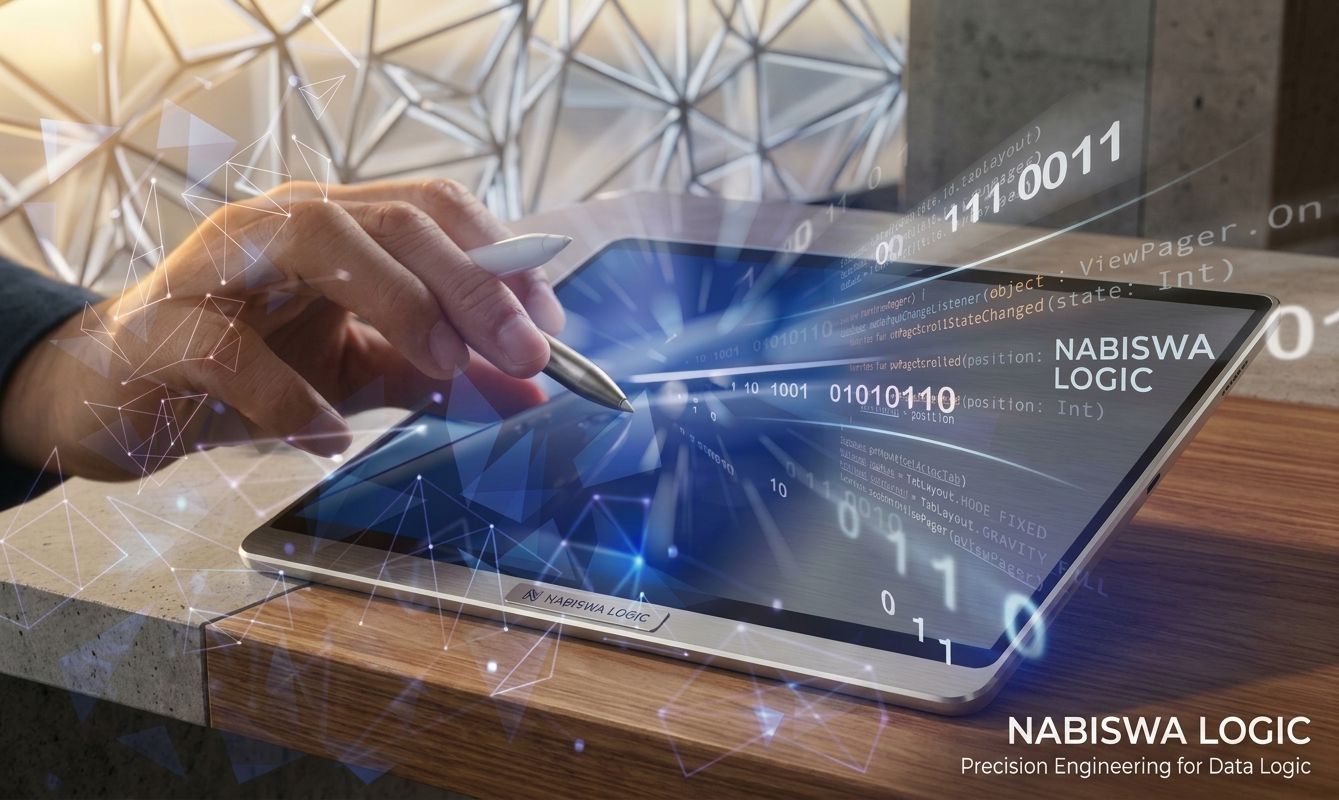
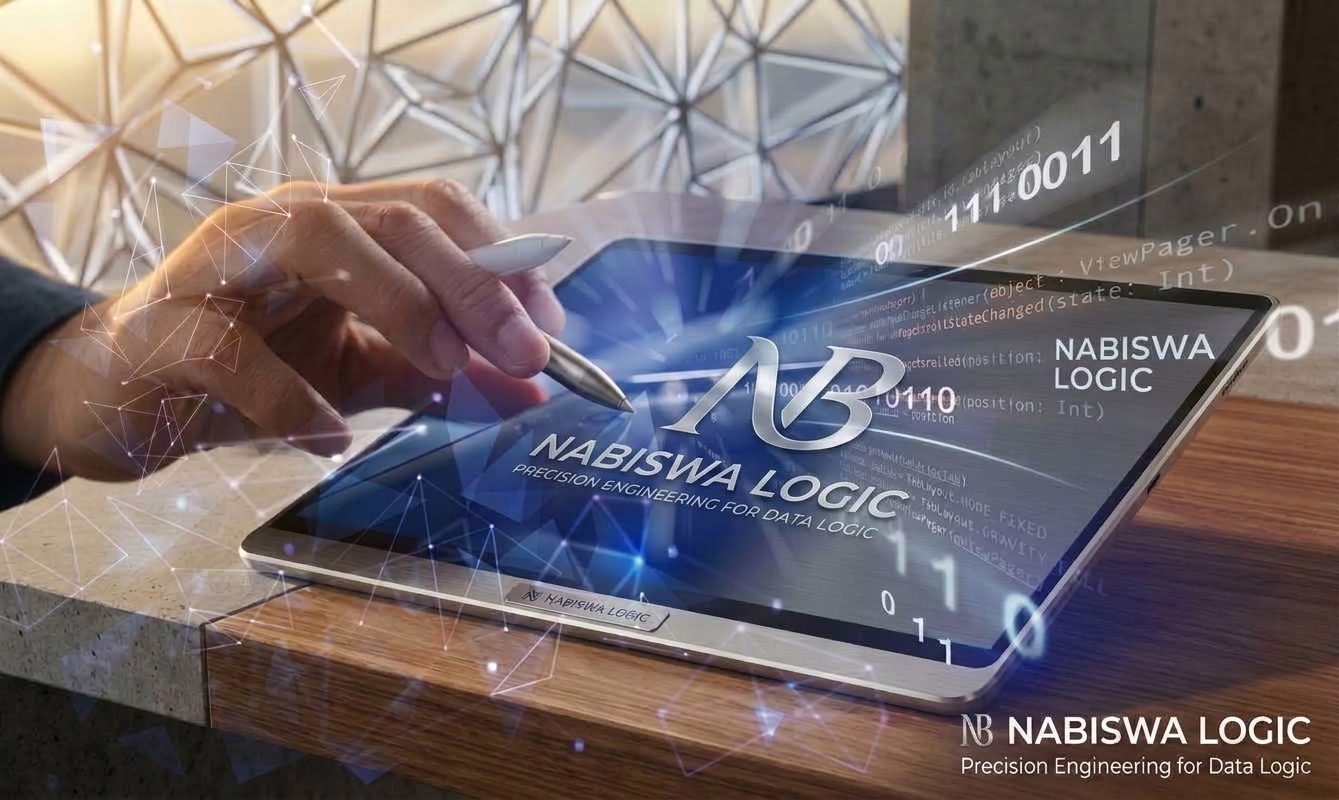
Final

Changed region(s): [[0.3674, 0.4062, 0.7043, 0.6875], [0.7043, 0.875, 0.7655, 0.9375]]

diff --git a/templates/customers/landing.html b/templates/customers/landing.html
@@ -1,8 +1,12 @@
 {% extends "base.html" %}
+{% load static %}
 {% block title %}{{ branding.business_name }} &middot; Get Connected{% endblock %}
 {% block content %}
 <div style="text-align:center; padding:32px 16px 8px;">
-  <h1>{{ branding.business_name }}</h1>
+  <div style="display:flex; align-items:center; justify-content:center; gap:14px;">
+    <img src="{% static 'images/logo.png' %}" alt="Logo" style="height:56px; width:auto;">
+    <h1 style="font-family:'Tangerine',cursive; font-size:3.2rem; font-weight:400; line-height:1; margin:0;">{{ branding.business_name }}</h1>
+  </div>
   <p style="color:var(--color-text-muted);">{{ branding.portal_message }}</p>
   <p style="font-size:.85rem;">
     Already paid, or have a voucher? <a href="#reconnect">Get connected </a>
@@ -77,7 +81,7 @@
   </div>
 </div>
 <section id="reconnect" class="card" style="max-width:420px;margin:48px auto;">
-  <h2 style="margin-top:0;">Get connected another way</h2>
+  <h2 style="margin-top:0; font-family:'Tangerine',cursive; font-size:2.2rem; font-weight:400;">Get connected another way</h2>
 
   {% if messages %}
     {% for message in messages %}

diff --git a/templates/base.html b/templates/base.html
@@ -6,6 +6,11 @@
   <meta name="viewport" content="width=device-width, initial-scale=1.0">
     <title>{% block title %}{{ branding.business_name }}{% endblock %}</title>
 
+  <link rel="apple-touch-icon" sizes="180x180" href="{% static 'favicons/apple-touch-icon.png' %}">
+  <link rel="icon" type="image/png" sizes="32x32" href="{% static 'favicons/favicon-32x32.png' %}">
+  <link rel="icon" type="image/png" sizes="16x16" href="{% static 'favicons/favicon-16x16.png' %}">
+  <link rel="manifest" href="{% static 'favicons/site.webmanifest' %}">
+
   <!-- Google Fonts -->
   <link rel="preconnect" href="https://fonts.googleapis.com">
   <link rel="preconnect" href="https://fonts.gstatic.com" crossorigin>
